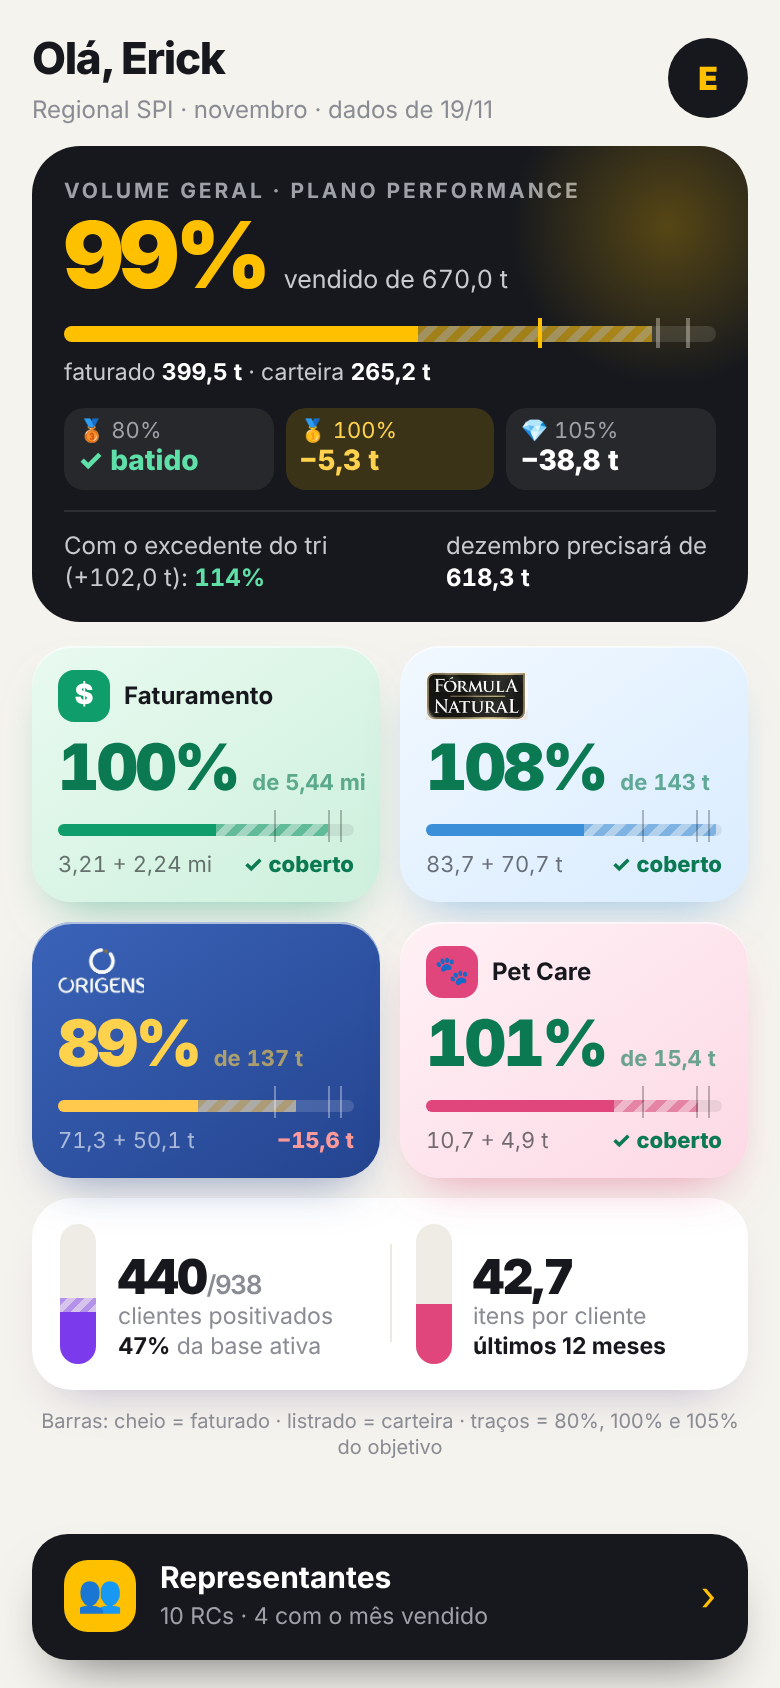
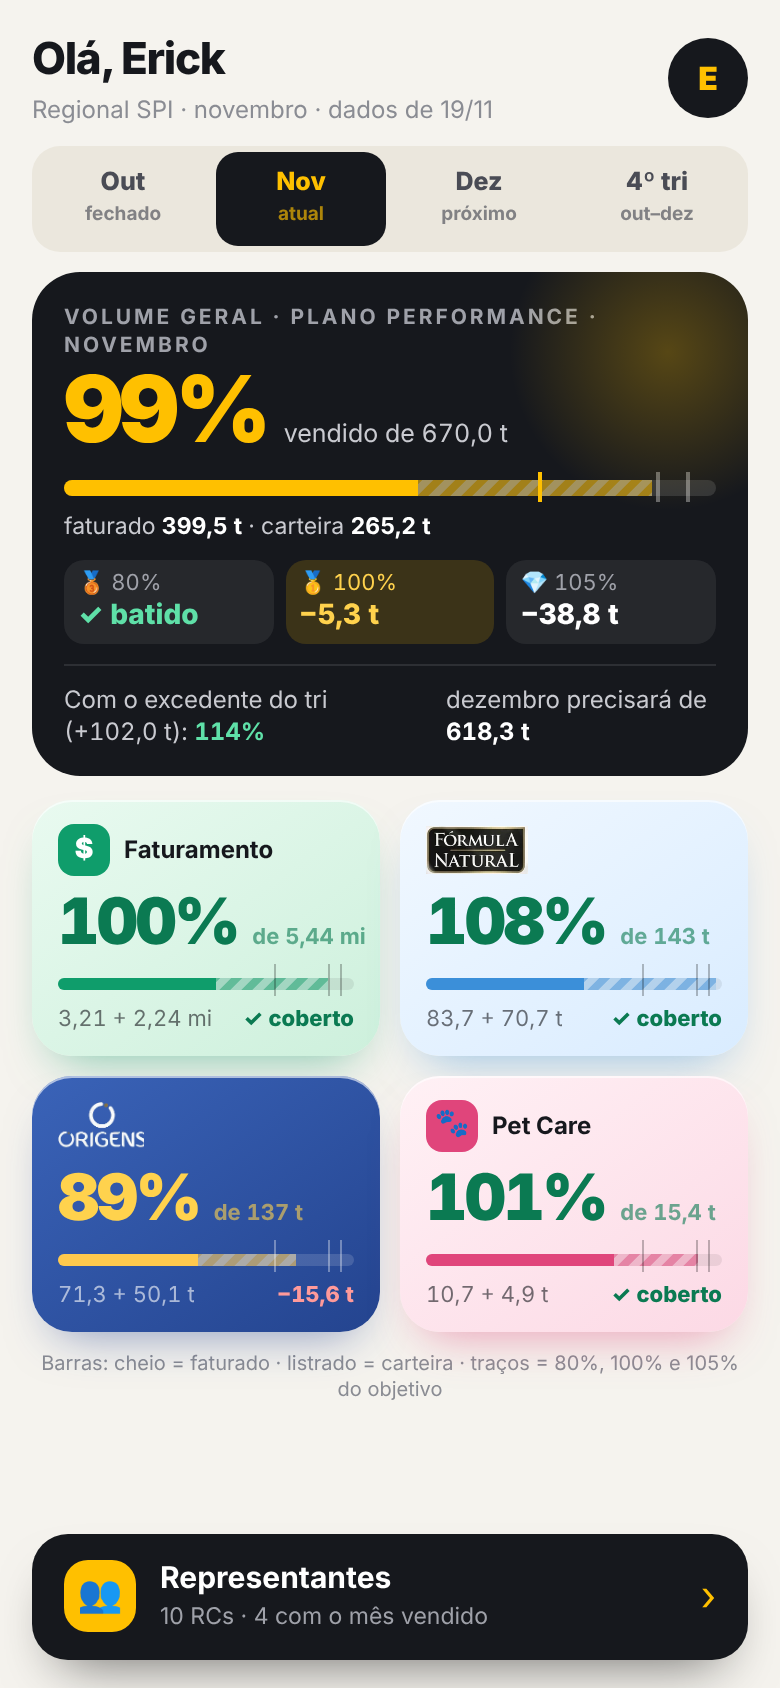
BI 2027: gestor só com KPIs do sistema, out/nov/dez e 4º tri
Claude-Session: https://claude.ai/code/session_01LrJjmJWahWzPiewsbMYBEe

diff --git a/tools/bi2027/fontes/gestor.tpl.html b/tools/bi2027/fontes/gestor.tpl.html
@@ -10,6 +10,9 @@
 .hd{display:flex;justify-content:space-between;align-items:center;margin-bottom:10px}
 .hd h1{margin:0;font-size:22px;font-weight:800;letter-spacing:-.03em}.hd p{margin:1px 0 0;font-size:12px;color:var(--mut)}
 .av{width:40px;height:40px;border-radius:50%;background:#16181d;color:#ffc000;display:grid;place-items:center;font-weight:900;font-size:16px;flex:none}
+.tabs{display:grid;grid-template-columns:repeat(4,1fr);gap:4px;background:#ebe7dd;border-radius:14px;padding:3px;margin-bottom:10px}
+.tabs button{all:unset;cursor:pointer;text-align:center;font-size:12.5px;font-weight:800;padding:8px 0;border-radius:11px;color:#4a4c55}.tabs button.on{background:#16181d;color:#ffc000}
+.tabs button small{display:block;font-size:9.5px;font-weight:700;opacity:.65;margin-top:1px}
 /* volume geral */
 .hero{background:#16181d;color:#fff;border-radius:24px;padding:16px 16px 14px;position:relative;overflow:hidden}
 .hero:after{content:"";position:absolute;right:-40px;top:-40px;width:160px;height:160px;border-radius:50%;background:radial-gradient(circle,rgba(255,192,0,.28),transparent 70%);pointer-events:none}
@@ -72,6 +75,7 @@ iframe{flex:1;width:100%;border:0;background:var(--bg)}
 </style></head><body>
 <div class="app" id="app">
  <div class="hd"><div><h1>Olá, Erick</h1><p id="sub"></p></div><div class="av">E</div></div>
+ <div class="tabs" id="tabs"></div>
  <div class="hero" id="hero" style="--c:#ffc000"></div>
  <div class="grid" id="grid"></div>
  <div class="foot" id="foot"></div>
@@ -89,22 +93,29 @@ const pc=a=>Math.round(a*100)+'%', f=n=>Math.round(n).toLocaleString('pt-BR');
 const tone=(a,dk)=>a>=1?(dk?'#5fe0a8':'#0b7a52'):a>=.8?(dk?'#ffd24d':'#b07d00'):(dk?'#ff9a9a':'#d64545');
 const nomes={'10':'outubro','11':'novembro','12':'dezembro'}, ordem=['10','11','12'], mm=D.mes_num;
 $('sub').textContent='Regional SPI · '+(nomes[mm]||D.mes)+' · dados de '+D.data;
-const K=D.kpi, M=K&&K.meses[mm]||{}, CT=K&&K.carteira||{};
-function kp(k){const x=M[k]; if(!x) return null; const [obj,fat]=x, cart=CT[k]||0, vend=fat+cart, i=ordem.indexOf(mm);
- let exc=0; ordem.slice(0,Math.max(0,i)).forEach(m=>{const y=K.meses[m]&&K.meses[m][k]; if(y) exc+=y[1]-y[0];});
- const prox=ordem[i+1], o2=prox&&K.meses[prox]&&K.meses[prox][k]?K.meses[prox][k][0]:null;
- return {obj,fat,cart,vend,pv:vend/obj,pf:fat/obj,gap:Math.max(obj-vend,0),exc,px:(vend+exc)/obj,prox,need:o2!=null?Math.max(o2-(exc+vend-obj),0):null};}
+const K=D.kpi, CT=K&&K.carteira||{};
+let sel=ordem.includes(mm)?mm:'tri';
+// m = '10' | '11' | '12' | 'tri'. Carteira só entra no mês vigente (e no trimestre).
+function kp(k,m){ if(!K) return null;
+ if(m==='tri'){ let obj=0,fat=0; ordem.forEach(x=>{const y=K.meses[x]&&K.meses[x][k]; if(y){obj+=y[0];fat+=y[1];}}); if(!obj) return null;
+  const cart=CT[k]||0, vend=fat+cart; return {obj,fat,cart,vend,pv:vend/obj,pf:fat/obj,gap:Math.max(obj-vend,0),exc:0,px:vend/obj,prox:null,need:null,tri:1}; }
+ const x=K.meses[m]&&K.meses[m][k]; if(!x) return null; const [obj,fat]=x, cart=m===mm?(CT[k]||0):0, vend=fat+cart, i=ordem.indexOf(m);
+ let exc=0; ordem.slice(0,Math.max(0,i)).forEach(q=>{const y=K.meses[q]&&K.meses[q][k]; if(y) exc+=y[1]+(q===mm?(CT[k]||0):0)-y[0];});
+ const prox=ordem[i+1], o2=prox&&K.meses[prox]&&K.meses[prox][k]?K.meses[prox][k][0]:null, futuro=+m>+mm;
+ return {obj,fat,cart,vend,pv:vend/obj,pf:fat/obj,gap:Math.max(obj-vend,0),exc,px:(vend+exc)/obj,prox:futuro?null:prox,need:!futuro&&o2!=null?Math.max(o2-(exc+vend-obj),0):null,fech:+m<+mm,futuro,need_ini:futuro?Math.max(obj-exc,0):null};}
 const W=v=>Math.min(v/1.1,1)*100+'%', TICKS=[.8,1,1.05];
 const ticks=()=>TICKS.map(t=>`<div class="cp" style="left:${t/1.1*100}%"></div>`).join('');
+function render(){
 /* volume geral */
-const v=kp('vol');
+const v=kp('vol',sel);
 if(v){ const nx=TICKS.find(t=>v.pv<t);
- $('hero').innerHTML=`<div class="cap">Volume geral · Plano Performance</div>
- <div class="big num"><b data-n="${Math.round(v.pv*100)}">0%</b><span>vendido de ${tn(v.obj)}</span></div>
+ $('hero').innerHTML=`<div class="cap">Volume geral · Plano Performance · ${sel==='tri'?'4º trimestre':nomes[sel]}${v.fech?' (fechado)':v.futuro?' (a vender)':''}</div>
+ <div class="big num"><b data-n="${Math.round(v.pv*100)}">0%</b><span>${v.fech||v.tri&&!v.cart?'realizado':'vendido'} de ${tn(v.obj)}</span></div>
  <div class="trk-w"><div class="trk"><i class="f" data-w="${W(v.pf)}"></i><i class="c" data-w="${(Math.min(v.pv,1.1)-Math.min(v.pf,1.1))/1.1*100}%"></i></div>${TICKS.map(t=>`<div class="cp ${v.pv>=t?'ok':''}" style="left:${t/1.1*100}%"></div>`).join('')}</div>
- <div class="leg3 num">faturado <b>${tn(v.fat)}</b> · carteira <b>${tn(v.cart)}</b></div>
+ <div class="leg3 num">${v.fech?`realizado <b>${tn(v.fat)}</b>`:`faturado <b>${tn(v.fat)}</b> · carteira <b>${tn(v.cart)}</b>`}</div>
  <div class="cps num">${[['🥉','80%',.8],['🥇','100%',1],['💎','105%',1.05]].map(([e,l,t])=>{const g=t*v.obj-v.vend;return `<span class="${g<=0?'ok':t===nx?'nx':''}">${e} ${l} <b>${g<=0?'✓ batido':'−'+tn(g)}</b></span>`}).join('')}</div>
- ${v.exc||v.need!=null?`<div class="exc num"><span>Com o excedente do tri (${v.exc>=0?'+':''}${tn(v.exc)}): <b class="${v.px>=1?'g':''}">${pc(v.px)}</b></span>${v.need!=null?`<span>${nomes[v.prox]} precisará de <b>${tn(v.need)}</b></span>`:''}</div>`:''}`; }
+ ${v.futuro?`<div class="exc num"><span>Objetivo do mês: <b>${tn(v.obj)}</b></span><span>com o resultado de out–nov, precisa de <b>${tn(v.need_ini)}</b></span></div>`:''}
+ ${!v.futuro&&(v.exc||v.need!=null)?`<div class="exc num">${v.exc?`<span>Com o excedente do tri (${v.exc>=0?'+':''}${tn(v.exc)}): <b class="${v.px>=1?'g':''}">${pc(v.px)}</b></span>`:'<span></span>'}${v.need!=null?`<span>${nomes[v.prox]} ${v.fech?"precisava":"precisará"} de <b>${tn(v.need)}</b></span>`:''}</div>`:''}`; }
 else $('hero').innerHTML='<div class="cap">Volume geral</div><p style="color:#c9cad0">KPIs da Regional indisponíveis nesta atualização.</p>';
 /* kpis */
 const T=[
@@ -112,18 +123,14 @@ const T=[
  ['fn',{bg:'linear-gradient(145deg,#f1f8ff,#d9ecff)',c:'#3b8fd9',sh:'59,143,217',top:`<img class="lg" src="${LOGO.fn}" alt="Fórmula Natural">`,fmt:tn,fx:n=>(n/1000).toLocaleString('pt-BR',{maximumFractionDigits:1})}],
  ['orig',{bg:'linear-gradient(145deg,#3a63b8,#24448f)',c:'#ffc94d',sh:'36,68,143',dk:1,top:`<img class="lg" src="${LOGO.or}" alt="Origens">`,fmt:tn,fx:n=>(n/1000).toLocaleString('pt-BR',{maximumFractionDigits:1})}],
  ['pet',{bg:'linear-gradient(145deg,#fff1f5,#fcd9e5)',c:'#e0457b',sh:'224,69,123',top:'<span class="ic" style="background:#e0457b">🐾</span><span class="nm">Pet Care</span>',fmt:tn,fx:n=>(n/1000).toLocaleString('pt-BR',{maximumFractionDigits:1})}]];
-let html=T.map(([k,o])=>{const x=kp(k); if(!x) return ''; const un=k==='rs'?' mi':' t';
+let html=T.map(([k,o])=>{const x=kp(k,sel); if(!x) return ''; const un=k==='rs'?' mi':' t';
  return `<div class="k${o.dk?' dk':''}" style="background:${o.bg};--c:${o.c};--sh:${o.sh}"><div class="top">${o.top}</div>
  <div class="v num" style="color:${tone(x.pv,o.dk)}"><b data-n="${Math.round(x.pv*100)}">0%</b><small>de ${o.fx(x.obj)}${un}</small></div>
  <div class="trk-w"><div class="trk"><i class="f" data-w="${W(x.pf)}"></i><i class="c" data-w="${(Math.min(x.pv,1.1)-Math.min(x.pf,1.1))/1.1*100}%"></i></div>${ticks()}</div>
  <div class="gp num"><span>${o.fx(x.fat)} + ${o.fx(x.cart)}${un}</span><b style="color:${x.gap?(o.dk?'#ff9a9a':'#d64545'):tone(1,o.dk)}">${x.gap?'−'+o.fx(x.gap)+un:'✓ coberto'}</b></div></div>`}).join('');
-const B=D.base;
-if(B){ const pos=B.fat+B.cart;
- html+=`<div class="base"><div class="vb" style="--c:#7c3aed"><div class="vt"><i class="f" data-h="${B.fat/B.n*100}%"></i><i class="c" data-h="${B.cart/B.n*100}%"></i></div><div class="t"><b class="num">${f(pos)}<span style="font-size:13px;color:var(--mut);font-weight:600">/${f(B.n)}</span></b>clientes positivados<br><em>${pc(pos/B.n)}</em> da base ativa</div></div>
- <div class="sep"></div>
- <div class="vb" style="--c:#e0457b"><div class="vt"><i class="f" data-h="${Math.min(B.mix/(B.mix_max||B.mix*1.3),1)*100}%"></i></div><div class="t"><b class="num">${String(B.mix).replace('.',',')}</b>itens por cliente<br><em>últimos 12 meses</em></div></div></div>`; }
 $('grid').innerHTML=html;
 $('foot').textContent='Barras: cheio = faturado · listrado = carteira · traços = 80%, 100% e 105% do objetivo';
+}
 /* representantes */
 const R=D.rcs.map(r=>Object.assign({},r,{pv:(r.fat+(r.carteira||0))/r.obj,p4:r.obj4t?r.real4t/r.obj4t:0})).sort((a,b)=>b.pv-a.pv);
 $('gosub').textContent=R.length+' RCs · '+R.filter(r=>r.pv>=1).length+' com o mês vendido';
@@ -135,7 +142,9 @@ $('lista').onclick=e=>{const b=e.target.closest('.rc'); if(b) location.hash=b.da
 const mostrar=()=>{const s=location.hash.slice(1), r=D.rcs.find(x=>x.slug===s); $('esp').classList.toggle('on',!!r); if(!r) return; $('sheet').classList.remove('on'); $('sel').value=s; const src='../'+s+'/'; if($('frame').getAttribute('src')!==src) $('frame').setAttribute('src',src);};
 $('sel').onchange=()=>location.hash=$('sel').value; $('voltar').onclick=()=>{location.hash='';};
 addEventListener('hashchange',mostrar); mostrar();
-/* animação */
-requestAnimationFrame(()=>setTimeout(()=>{document.querySelectorAll('[data-w]').forEach(e=>e.style.width=e.dataset.w);document.querySelectorAll('[data-h]').forEach(e=>e.style.height=e.dataset.h);
- document.querySelectorAll('[data-n]').forEach(e=>{const n=+e.dataset.n,t0=performance.now();const s=t=>{const k=Math.min((t-t0)/1000,1);e.textContent=Math.round(n*(1-Math.pow(1-k,3)))+'%';if(k<1)requestAnimationFrame(s)};requestAnimationFrame(s)});},120));
+function anima(){requestAnimationFrame(()=>setTimeout(()=>{document.querySelectorAll('[data-w]').forEach(e=>e.style.width=e.dataset.w);document.querySelectorAll('[data-h]').forEach(e=>e.style.height=e.dataset.h);
+ document.querySelectorAll('[data-n]').forEach(e=>{const n=+e.dataset.n,t0=performance.now();const s=t=>{const k=Math.min((t-t0)/1000,1);e.textContent=Math.round(n*(1-Math.pow(1-k,3)))+'%';if(k<1)requestAnimationFrame(s)};requestAnimationFrame(s)});},120));}
+function tabs(){ $('tabs').innerHTML=[...ordem,'tri'].map(m=>`<button class="${m===sel?'on':''}" data-m="${m}">${m==='tri'?'4º tri':nomes[m].slice(0,3).replace(/^./,c=>c.toUpperCase())}<small>${m==='tri'?'out–dez':m===mm?'atual':+m<+mm?'fechado':'próximo'}</small></button>`).join(''); }
+$('tabs').onclick=e=>{const b=e.target.closest('button'); if(!b) return; sel=b.dataset.m; tabs(); render(); anima();};
+tabs(); render(); anima();
 </script></body></html>
